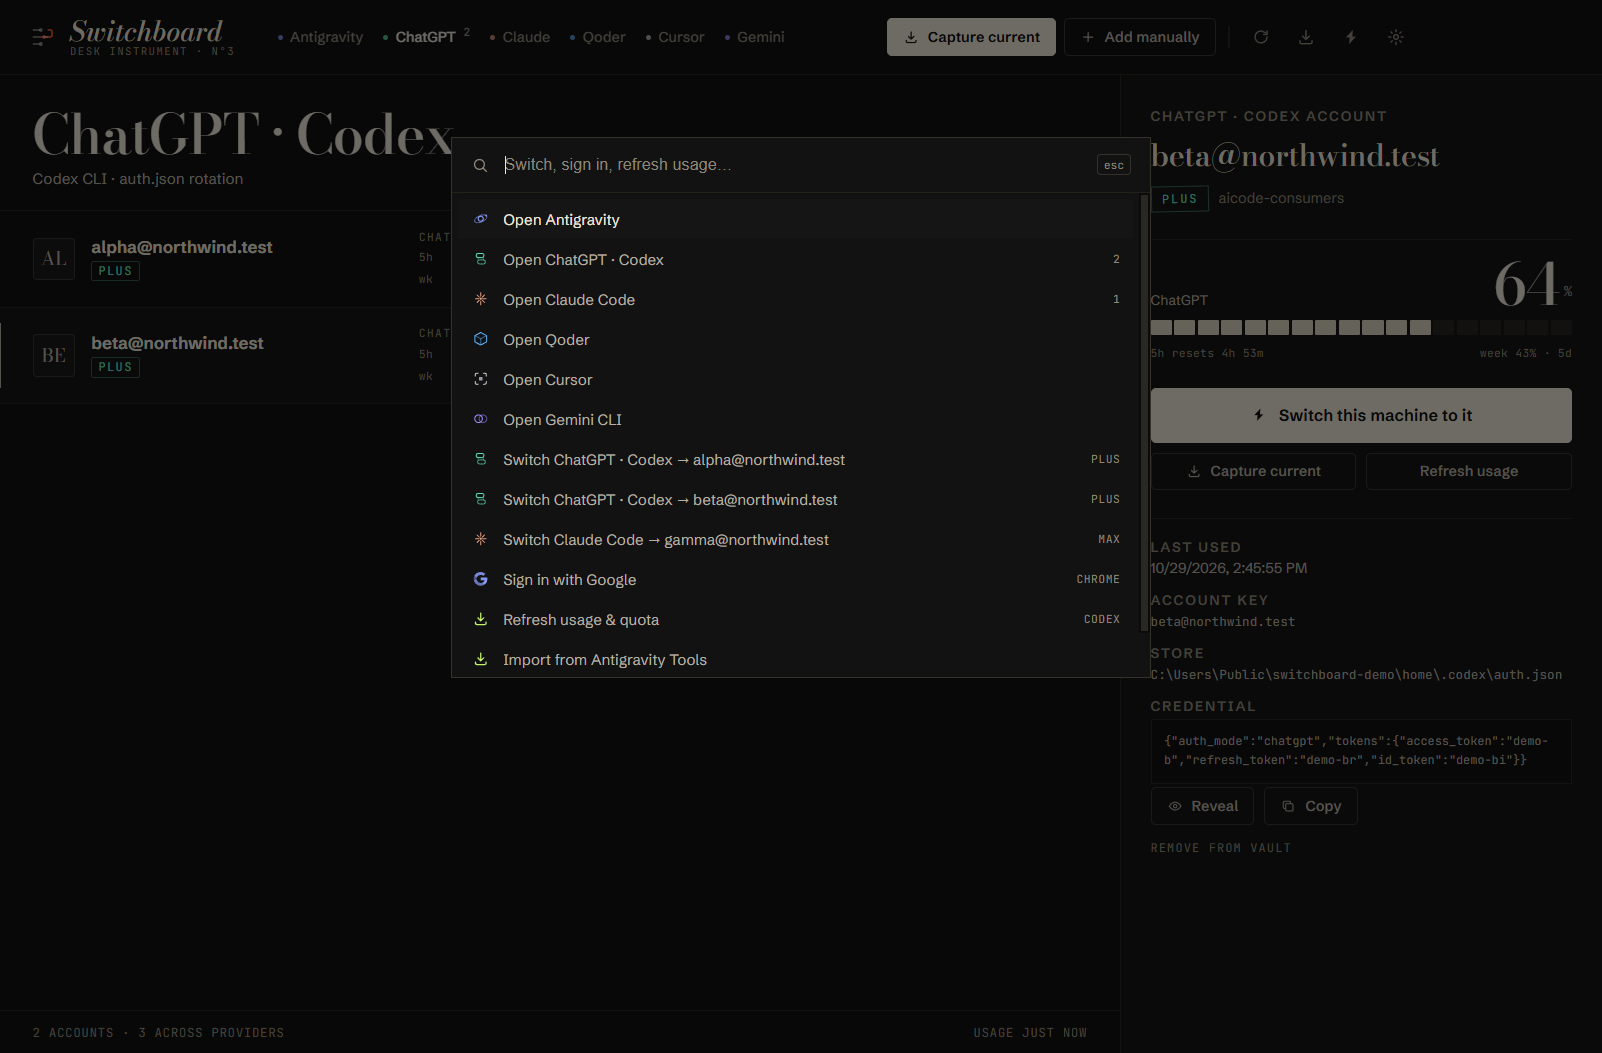
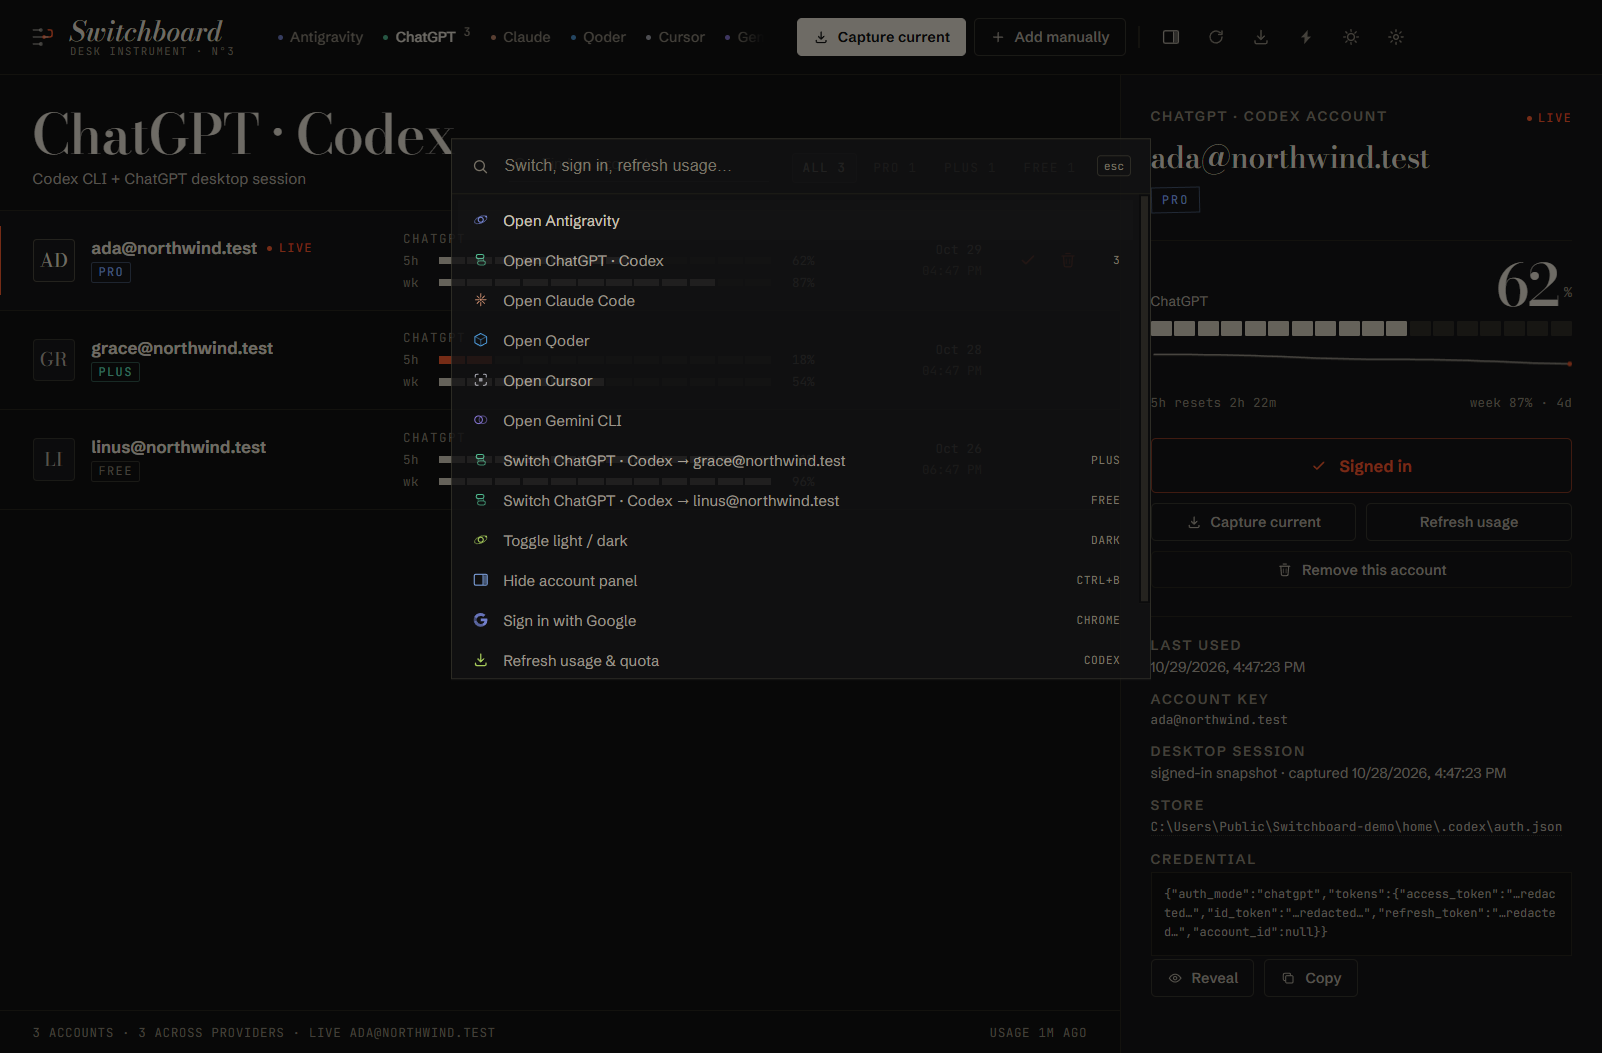
Release 1.2.8

diff --git a/SECURITY.md b/SECURITY.md
@@ -9,7 +9,7 @@ Do not open a public issue for anything that exposes credentials, escapes the IP
 or can be triggered by a crafted provider file. Use GitHub's private vulnerability reporting
 ("Report a vulnerability" under the Security tab) and include:
 
-- affected version / commit,
+- affected version,
 - a reproduction (steps or minimal script),
 - what an attacker gains.
 
@@ -19,30 +19,37 @@ reasonable window before publishing.
 ## Threat model (what is in scope)
 
 - The **renderer is untrusted**: provider data is interpolated into the DOM, so any way to
-  execute script there is a vulnerability. IPC handlers validate their inputs; paths passed
-  to `openPath` are constrained to the user profile and the vault directory.
+  execute script there is a vulnerability. The renderer runs sandboxed with context isolation;
+  navigation, window-open, webviews and permission requests are denied. IPC handlers reject
+  frames that are not the app's own document.
+- Paths passed to the file-opening IPC are constrained to the vault directory or to a
+  credential store that a registered provider actually detected; the renderer cannot name an
+  arbitrary file.
 - The **vault** is sealed with Windows DPAPI (CurrentUser) at
-  `%APPDATA%\Switchboard\vault.dat`. The non-Windows fallback is AES-256-GCM with a key
-  derived from the machine/user name — weaker, and only there for development parity.
+  `%APPDATA%\Switchboard\vault.dat`. The non-Windows fallback is AES-256-GCM with a key derived
+  from the machine/user name — weaker, and only there for development parity.
 - **Credentials never leave the machine** except to the vendor endpoints needed to refresh a
   token or read quota (Google, OpenAI, Anthropic, Cursor). There is no telemetry.
 - **OAuth loopback**: the sign-in flow binds a random localhost port, uses a random `state`,
-  completes in the system browser and validates `state` before exchanging the code.
+  completes in the system browser and validates `state` before exchanging the code. The OAuth
+  client is bring-your-own (`%APPDATA%\Switchboard\google.json`); no client credentials ship
+  with the build.
+- **Copied secrets** are wiped from the clipboard after 30 seconds if unchanged.
+- **Updates** download only from `github.com` / `*.githubusercontent.com` release assets, verify
+  the archive against the release's `SHA256SUMS.txt` before extraction, and install through a
+  one-shot scheduled task. The build is code-signed with a self-signed certificate; Windows
+  treats it as an unknown publisher, so the SHA-256 checksum remains the trust anchor.
+- The packaged launcher disables Electron's Node runtime entry points (`RunAsNode`,
+  `NODE_OPTIONS` environment variable, `--inspect` arguments) before signing.
 
-## What is out of scope
+## Residual risks
 
 - Anyone with an interactive session as the same Windows user can read the credential stores
   of the target applications directly; that is the environment this tool is built for.
-- The Google OAuth client id/secret embedded in `src/oauth.js` together with the upstream
-  flow is the client used by the open-source Antigravity Tools project; it ships inside every
-  copy of that app and is not a confidential secret. Treat it as a public client identifier.
-
-## Distribution caveats (v1)
-
-- The portable build in `dist/` is **unsigned** and keeps Electron's default fused flags
-  (RunAsNode enabled), and its `resources/app` is a plain folder. For a signed release, build
-  with Electron Forge/Builder: asar packaging, `RunAsNode: false`, `EnableNodeCliInspectArguments:
-  false`, and a code-signing certificate. Until then, publish checksums with the zip.
-- The exe metadata (ProductName/Company) still reads "Electron" in v1; the window icon is
-  Switchboard's own.
-- No auto-updater: users update by downloading a new portable folder.
+- The package is a portable folder, not an installer: `resources/app` ships as plain files, so
+  the application code is readable inside the build. No user secrets are included.
+- `OnlyLoadAppFromAsar` cannot be enabled while the app ships as a folder; an attacker who can
+  already write to the install directory can replace app files.
+- Update authenticity follows GitHub: if the release account or its assets are compromised, a
+  malicious build can still present a matching checksum. Verify releases independently if that
+  is in your threat model.

diff --git a/README.md b/README.md
@@ -18,8 +18,9 @@ move to the next account in one verified click — no re-login, no browser dance
 
 </div>
 
-> **New in 1.2** — auto-rotate when quota runs low · tray + `Ctrl+Alt+S` · usage-history
-> sparklines · one-click, SHA-256-verified updates · signed builds · vault export.
+> **New in 1.2** — collapsible account panel (`Ctrl+B`) · explicit remove-account with
+> confirmation · signed-in ChatGPT desktop snapshots · auto-rotate when quota runs low ·
+> tray + `Ctrl+Alt+S` · usage-history sparklines · SHA-256-verified one-click updates.
 > [Full changelog →](CHANGELOG.md)
 
 ---
@@ -54,6 +55,7 @@ search, keyboard-first (`Ctrl+K`), light & dark themes, and a DPAPI-sealed vault
 | **Tray + hotkey** | Keep it in the tray, start with Windows, summon with `Ctrl+Alt+S`; auto-rotate keeps working while the window is closed. |
 | **Notifications** | Windows toasts for low quota (30-minute dedupe) and for every automatic rotation. |
 | **Verified switching** | Credential written, read back, identity-checked, app restarted. Failed switches are reported as failures. |
+| **Remove accounts** | Trash on any row, or “Remove this account” in the inspector, behind a confirmation dialog. Deletes the vault entry, captured desktop session and stored profile. |
 | **Live usage** | Google Cloud Code quota, OpenAI `wham/usage`, Anthropic OAuth usage, Cursor dashboard — 5-hour + weekly windows with reset times and a usage trend sparkline. |
 | **Plan aware** | PRO / ULTRA / PLUS / MAX / FREE badges; filters that only show plans you actually have. |
 | **Browser sign-in** | Google OAuth with PKCE in Chrome/Edge; accounts land in the vault with quota ready. |
@@ -98,12 +100,14 @@ search, keyboard-first (`Ctrl+K`), light & dark themes, and a DPAPI-sealed vault
 4. Press the switch — the app writes, verifies, restarts the client if you left auto-restart on.
 5. Leave **auto-rotate** on in Settings and Switchboard will move you to the healthiest account
    before the quota floor hits — the window can be closed, it lives in the tray.
-6. `Ctrl+K` for the command palette; `1`–`6` jumps between clients; `Ctrl+Alt+S` summons the
-   window; the sun icon flips theme.
+6. `Ctrl+K` for the command palette; `1`–`6` jumps between clients; `Ctrl+B` hides the
+   account panel; `Ctrl+Alt+S` summons the window; the sun icon flips theme.
 
 <div align="center">
 <img src="docs/theme-light.png" alt="Light theme" width="49%">
 <img src="docs/settings.png" alt="Settings" width="49%">
+<img src="docs/panel.png" alt="Account panel hidden — full-width ledger with the Panel tab on the right edge" width="49%">
+<img src="docs/palette.png" alt="Command palette" width="49%">
 </div>
 
 ## Supported clients
@@ -138,7 +142,8 @@ Scopes requested: `openid`, `cloud-platform`, `userinfo.email`, `userinfo.profil
 - Vault: `%APPDATA%\Switchboard\vault.dat`, sealed with Windows DPAPI (current user).
 - The UI runs in a sandboxed renderer; navigation and window-open are denied; IPC rejects any
   frame that isn't the app's own document; file-opening is restricted to registered credential
-  stores.
+  stores. The launcher disables Electron's Node runtime entry points (`RunAsNode`,
+  `NODE_OPTIONS`, `--inspect` arguments) before signing.
 - Update checks are the only call outside those vendors: `api.github.com` returns the latest
   release tag; no user data is sent. Installs only proceed after the downloaded archive matches
   the SHA-256 in the release's sums file.

diff --git a/THIRD-PARTY.md b/THIRD-PARTY.md
@@ -2,7 +2,7 @@
 
 ## Fonts (SIL Open Font License 1.1)
 
-Bundled woff2 files in `renderer/fonts/`:
+Bundled in the release under `resources/app/renderer/fonts/` (not in this repository):
 
 | Family | Copyright | License file |
 |---|---|---|
@@ -17,4 +17,5 @@ Sources: <https://github.com/google/fonts/tree/main/ofl/bodonimoda>,
 ## Runtime
 
 Electron (MIT) is a build-time/dev dependency only; the portable build bundles the
-Electron runtime as produced by the official distribution.
+Electron runtime as produced by the official distribution. @electron/fuses (MIT) is used
+at build time to harden the launcher and is not bundled.

diff --git a/CHANGELOG.md b/CHANGELOG.md
@@ -1,5 +1,12 @@
 # Changelog
 
+## 1.2.8 — 2026-10-29
+
+- Hardened the packaged launcher: Electron fuses now disable Node's runtime entry points
+  (`RunAsNode`, `NODE_OPTIONS`, `--inspect` arguments) before the build is signed.
+- `SECURITY.md` rewritten to match what ships: self-signed builds with SHA-256-verified updates,
+  a bring-your-own Google OAuth client, and the remaining portable-build risks.
+
 ## 1.2.7 — 2026-10-29
 
 - The panel toggle stays in sync when clicked rapidly: a slow vault write (~700 ms,
